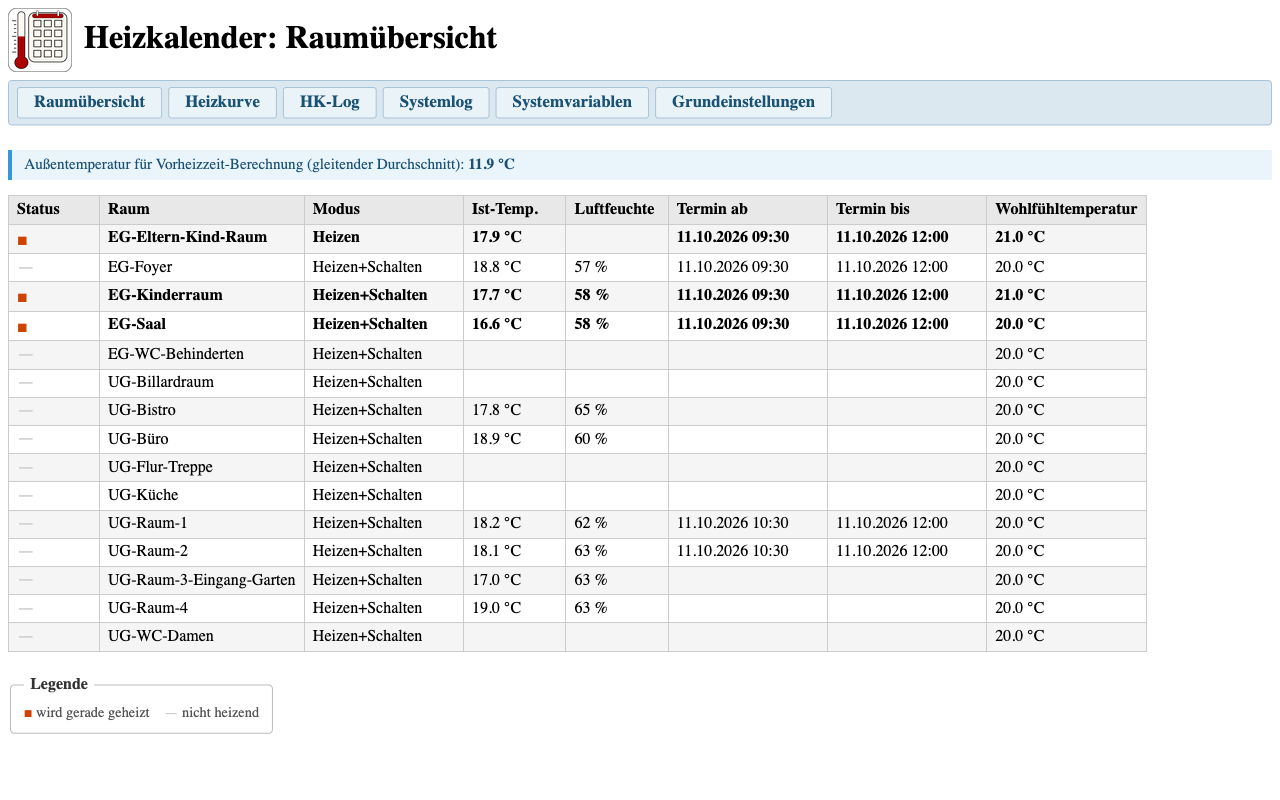
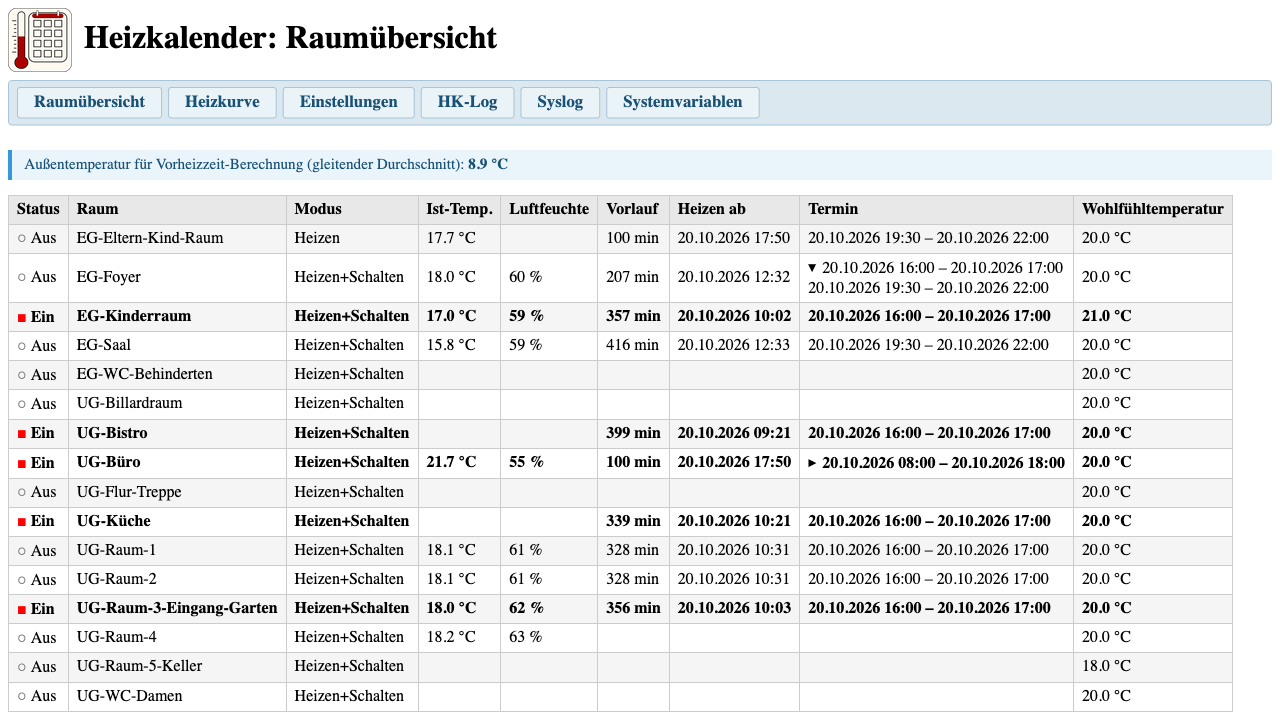
docs(addon): Anwenderhandbuch Raumübersicht überarbeiten, Screenshots aktualisieren
- Spaltenübersicht aktualisiert: Status zeigt EIN/AUS statt Symbol,
  Spalten "Termin ab"/"Termin bis" zu "Termin" zusammengeführt,
  Spalten "Vorlauf" und "Heizen ab" ergänzt (nur wenn HK2-Schaltzeiten vorhanden)
- Mehrere Termine pro Raum und Raum-Gruppen-Verhalten dokumentiert
- systemlog.png in syslog.png umbenannt (neuer Screenshot)
- raumuebersicht-raumgruppe.png entfernt
- Alle Screenshots aktualisiert

Changed region(s): [[0.0, 0.0, 1.0, 0.967]]

diff --git a/docs/addon/anwenderhandbuch.md b/docs/addon/anwenderhandbuch.md
@@ -44,29 +44,27 @@ Die Raumübersicht zeigt für jeden konfigurierten Raum den aktuellen Heizstatus
 
 | Spalte | Bedeutung |
 | ------ | --------- |
-| Status | Symbol für den aktuellen Zustand (siehe Legende) |
+| Status | `EIN` wenn der Raum gerade heizt, `AUS` wenn nicht |
 | Raum | Name des Raums (aus der Raum-Systemvariablen `HKG-Raum-*`) |
 | Modus | Heizmodus: Heizen, Schalten oder Heizen+Schalten |
 | Ist-Temp. | Aktuelle Raumtemperatur (wenn ein Sensor zugeordnet ist) |
 | Luftfeuchte | Aktuelle Luftfeuchtigkeit (wenn der Sensor diesen Wert liefert) |
-| Termin ab | Beginn des nächsten oder laufenden Termins aus der Schaltliste |
-| Termin bis | Ende des Termins aus der Schaltliste |
+| Vorlauf | Berechnete Vorheizzeit in Minuten (nur wenn `HK2-Schaltzeiten` vorhanden) |
+| Heizen ab | Berechneter Einschaltzeitpunkt (nur wenn `HK2-Schaltzeiten` vorhanden) |
+| Termin | Beginn und Ende des nächsten oder laufenden Termins aus der Schaltliste; bei mehreren Terminen aufklappbar |
 | Wohlfühltemperatur | Zieltemperatur für den Raum |
 
-**Statussymbole (Legende):**
+Die Spalten **Vorlauf** und **Heizen ab** werden nur angezeigt, wenn die Systemvariable `HK2-Schaltzeiten` auf der CCU vorhanden ist. Ist sie nicht angelegt, entfallen diese beiden Spalten.
 
-- Gefülltes Quadrat (rot): Raum wird gerade geheizt
-- Gedankenstrich (hellgrau): Raum heizt nicht
-
-**Statusermittlung:** Das Statussymbol wird direkt aus Feld 0 der jeweiligen `HKG-Raum-*`-Systemvariablen gelesen (0 = nicht heizend, 1 = heizt). Die Spalten „Termin ab" und „Termin bis" zeigen die Zeiten aus der Schaltliste (`HK1-Schaltliste`).
+**Statusermittlung:** Der Status wird direkt aus Feld 0 der jeweiligen `HKG-Raum-*`-Systemvariablen gelesen (0 = `AUS`, 1 = `EIN`). Die Spalte „Termin" zeigen die Zeiten aus der Schaltliste (`HK1-Schaltliste`).
 
 Ganz oben wird, falls vorhanden, die aktuelle Außentemperatur (gleitender Mittelwert) angezeigt, die für die Vorheizzeitberechnung verwendet wird.
 
+**Mehrere Termine pro Raum und Tag:** Hat ein Raum an einem Tag mehr als einen Termin in der Schaltliste, wird in der Terminspalte zunächst nur der erste Eintrag angezeigt. Durch Klick auf diesen Eintrag klappt die Zelle auf und zeigt alle weiteren Termine des Raums.
+
+**Raum-Gruppen:** Ein Raum kann über `HK2-HKG-Liste` als Teil einer Gruppe konfiguriert sein, d.h. er wird bei der Buchung anderer Ressourcen mitgeheizt. In diesem Fall sammelt das Addon alle Ressourcen-IDs, für die der Raum zuständig ist (eigene Ressource und alle Gruppen, in denen er Mitglied ist), und zeigt sämtliche zugehörigen Termine in einer einzigen Zeile an. Der Raum erscheint also immer nur einmal in der Tabelle, egal wie viele Ressourcen ihn einschließen.
+
 **Hinweis:** Die Seite zeigt ausschließlich Heizdaten. Der ursprüngliche Terminname aus dem Kalender ist in der Schaltliste nicht enthalten.
-
-Hier liegt ein Sonderfall vor: Der Raum *UG-Büro* wurde dem Raum *EG-Eltern-Kind-Raum* zugewiesen, sodass sie eine Raumgruppe bilden. Entsprechend wird der Raum *UG-Büro* mitgeheizt. Der Termin enthält allerdings nur den Raum *EG-Eltern-Kind-Raum*.
-
-![Raumübersicht mit aktiven Terminen für EG-Kinderraum, EG-Foyer, EG-Eltern-Kind-Raum und EG-Saal sowie UG-Büro](images/raumuebersicht-raumgruppe.png "Heizkalender: Raumübersicht mit Raumgruppe")
 
 ---
 
